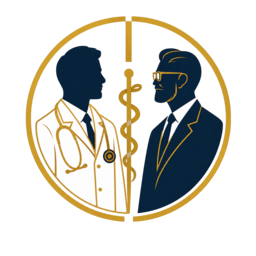
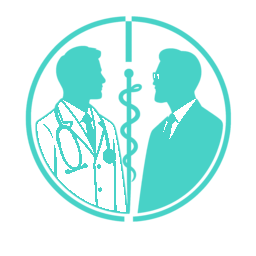
Enlarge and recolor shared brand emblem

Changed region(s): [[0.0938, 0.0625, 0.9062, 0.875]]

diff --git a/frontend/src/components/product-pages.css b/frontend/src/components/product-pages.css
@@ -2,5 +2,5 @@
 @media(max-width:1250px){.pp-topbar{gap:10px}.pp-topbar nav a{padding:0 6px;font-size:10px}.pp-profile span{display:none}.note-grid{grid-template-columns:repeat(3,1fr)}.exam-layout{grid-template-columns:190px minmax(0,1fr)}.exam-detail{grid-column:2}.mock-layout{grid-template-columns:240px minmax(0,1fr)}.exam-overview{grid-column:1/-1}.rounds-layout{grid-template-columns:240px minmax(0,1fr)}.round-insights{grid-column:1/-1;grid-template-columns:repeat(3,1fr)}.reasoning-layout{grid-template-columns:1fr}.case-summary,.reasoning-insights{display:grid;grid-template-columns:repeat(3,1fr)}.stage-grid{grid-template-columns:repeat(3,1fr)}.settings-cards{grid-template-columns:repeat(2,1fr)}.instructor-layout{grid-template-columns:190px minmax(0,1fr)}.quiz-detail{grid-column:2}.guideline-layout,.drug-layout{grid-template-columns:210px minmax(0,1fr)}.guideline-right,.drug-right{grid-column:2;position:static;grid-template-columns:repeat(3,1fr)}}
 @media(max-width:900px){.pp-topbar{height:62px;padding:0 15px}.pp-brand strong{font-size:15px}.pp-menu{display:block;border:0;background:transparent;font-size:22px}.pp-topbar nav{display:none;position:fixed;inset:0;background:var(--p-panel);padding:70px 20px 20px;flex-direction:column;z-index:100}.pp-topbar nav.open{display:flex}.pp-topbar nav a{min-height:48px;border:0;border-radius:8px}.pp-nav-close{display:block;position:absolute;top:18px;right:20px;border:0;background:transparent;font-size:24px}.pp-search{display:none}.pp-profile>button:not(.global-theme-toggle),.pp-profile>img,.pp-profile>svg{display:none}.pp-page{padding:16px}.pp-with-side,.notebook-layout,.editor-layout,.exam-layout,.mock-layout,.rounds-layout,.instructor-layout,.guideline-layout,.drug-layout{grid-template-columns:1fr}.pp-side{display:none}.pp-title,.pp-title.hero{display:block}.pp-title.hero>.pp-metrics{width:100%;margin-top:16px}.pp-metrics{grid-template-columns:repeat(2,1fr)}.pp-split,.settings-layout,.pp-quad,.settings-grid,.pp-duo{grid-template-columns:1fr}.settings-grid .wide{grid-column:auto}.calendar-grid{overflow:auto}.calendar-grid article{min-width:110px}.plan-preview,.note-detail,.exam-detail,.quiz-detail,.guideline-right,.drug-right{grid-column:auto;position:static}.note-grid,.exam-grid,.quiz-grid,.settings-cards{grid-template-columns:repeat(2,1fr)}.featured-note,.featured-quiz{grid-template-columns:1fr}.mock-footer{gap:6px}.mock-footer b{display:none}.round-insights,.case-summary,.reasoning-insights,.guideline-right,.drug-right{grid-column:auto;grid-template-columns:1fr}.stage-grid{grid-template-columns:repeat(2,1fr)}.reasoning-path{grid-template-columns:1fr}.pathway-grid{grid-template-columns:repeat(2,1fr)}}
 @media(max-width:560px){.pp-page{padding:12px}.pp-brand strong{display:none}.pp-title h1{font-size:25px}.pp-metrics,.note-grid,.exam-grid,.quiz-grid,.settings-cards,.stage-grid,.pathway-grid{grid-template-columns:1fr}.calendar-grid{grid-template-columns:repeat(7,110px)}.pp-form-grid{grid-template-columns:1fr}.notebook-layout,.editor-layout{display:block}.note-detail,.editor-insights{margin-top:12px}.exam-strip{grid-template-columns:repeat(2,1fr)}.exam-strip>a,.exam-strip>div{padding:8px}.navigator{display:none}.question-tools{overflow:auto}.question-card h2{font-size:14px}.mock-footer .pp-button{padding:0 10px;font-size:11px}.confidence{grid-template-columns:repeat(5,1fr)}.confidence .pp-button{grid-column:1/-1}.image-placeholders{grid-template-columns:1fr}.collection-row{padding-bottom:8px}}
-.pp-brand .brand-emblem{width:48px;height:48px}.pp-brand>.brand-words{width:auto;height:auto;border:0;border-radius:0;display:grid;place-items:initial;color:inherit}.pp-brand .brand-words strong{font:700 17px/1.03 Georgia,serif;color:var(--p-text)}
+.pp-brand .brand-emblem{width:60px;height:60px}.pp-brand>.brand-words{width:auto;height:auto;border:0;border-radius:0;display:grid;place-items:initial;color:inherit}.pp-brand .brand-words strong{font:700 17px/1.03 Georgia,serif;color:var(--p-text)}
 @media(max-width:560px){.pp-brand .brand-words{display:grid}.pp-brand strong{display:grid}}

diff --git a/frontend/src/components/dashboard.css b/frontend/src/components/dashboard.css
@@ -2,6 +2,6 @@
 @media(max-width:1180px){.dashboard-shell{grid-template-columns:220px}.dash-sidebar{width:220px}.momentum-card{margin-left:0}.welcome{position:static;width:auto;padding:5px 3px 18px}.welcome .eyebrow{margin-top:20px}.welcome>strong{margin-top:15px}.metrics{grid-template-columns:repeat(2,1fr)}.main-grid{grid-template-columns:1fr}.column-side{grid-template-columns:repeat(3,1fr)}.pearl-card{height:auto;min-height:200px}.dash-body{grid-column:2}}
 @media(max-width:820px){.dashboard-shell{display:block}.dash-sidebar{transform:translateX(-100%);width:260px}.dash-sidebar.open{transform:translateX(0);box-shadow:10px 0 40px rgba(0,0,0,.3)}.sidebar-close{display:grid;position:absolute;right:12px;top:12px;border:0;background:var(--db-soft);color:var(--db-text);width:30px;height:30px;border-radius:50%;place-items:center}.dash-body{grid-column:auto}.mobile-menu{display:grid;border:0;background:transparent;color:var(--db-text);font-size:22px}.dash-search{width:min(50vw,360px)}.profile-copy{display:none}.dash-topbar{padding:0 16px}.dash-content{padding:14px}.two-col,.column-side{grid-template-columns:1fr}.metrics{grid-template-columns:1fr 1fr}.main-grid{display:block}.column-side{display:grid;margin-top:12px}.activity-card{margin-bottom:12px}}
 @media(max-width:560px){.dash-topbar{gap:10px}.dash-search{flex:1}.dash-search kbd,.top-actions>.avatar,.top-actions>.notification,.top-actions>svg{display:none}.theme-toggle>svg{display:block}.metrics{grid-template-columns:1fr}.two-col{grid-template-columns:1fr}.learning-grid{grid-template-columns:1fr}.learning-card{min-height:auto}.chart-legend{right:20px}.bar-chart{padding-left:12px;padding-right:12px}.welcome h1{font-size:28px}}
-.dash-brand .brand-emblem{width:48px;height:48px}.dash-brand>.brand-words{width:auto;height:auto;border:0;border-radius:0;display:grid;place-items:initial;color:inherit;font-size:inherit;box-shadow:none}.dash-brand .brand-words strong{font:700 17px/1.03 Georgia,serif;color:var(--db-text)}
+.dash-brand .brand-emblem{width:60px;height:60px}.dash-brand>.brand-words{width:auto;height:auto;border:0;border-radius:0;display:grid;place-items:initial;color:inherit;font-size:inherit;box-shadow:none}.dash-brand .brand-words strong{font:700 17px/1.03 Georgia,serif;color:var(--db-text)}
 
 .schedule-card{min-height:250px}

diff --git a/frontend/src/app/globals.css b/frontend/src/app/globals.css
@@ -48,8 +48,8 @@ input {
   min-width: 0;
 }
 .brand-emblem {
-  width: 48px;
-  height: 48px;
+  width: 60px;
+  height: 60px;
   object-fit: contain;
   flex: none;
 }
